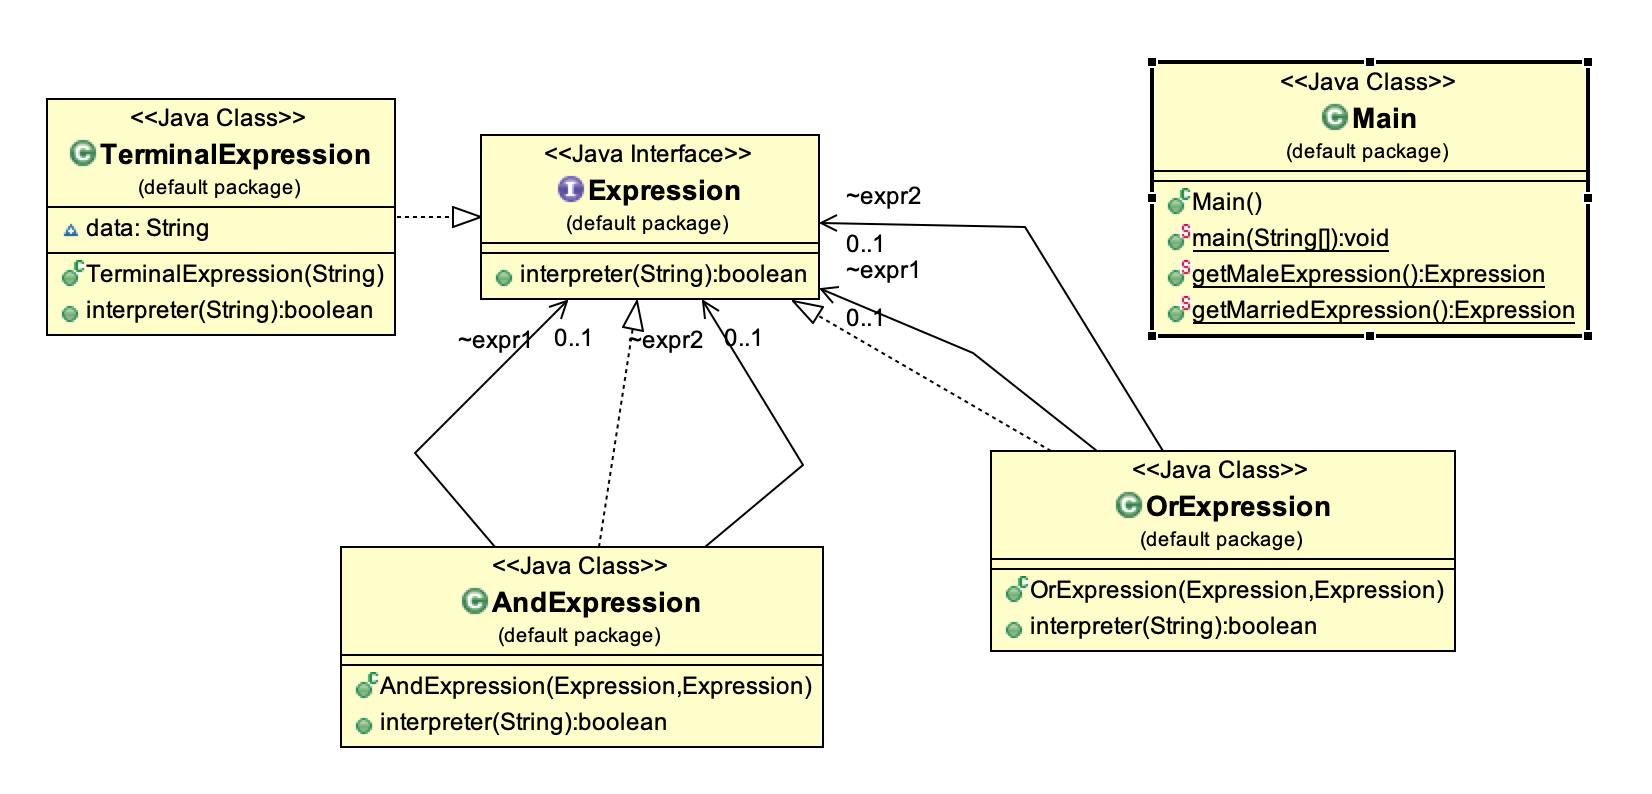
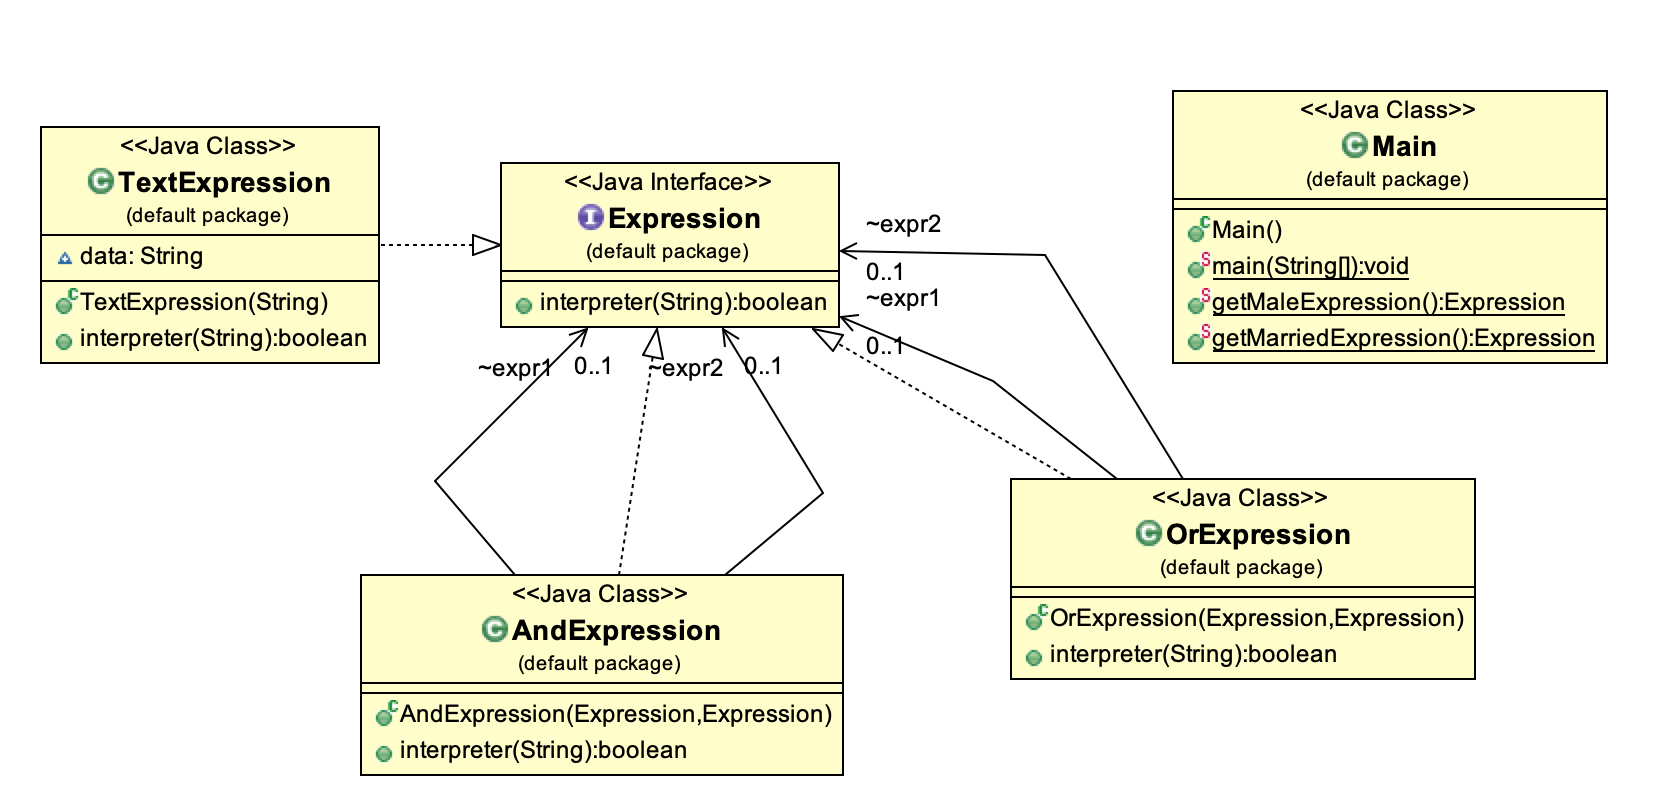
modify interpreter-pattern

diff --git a/design-pattern/behavioral-patterns/Interpreter-pattern.md b/design-pattern/behavioral-patterns/Interpreter-pattern.md
@@ -1,5 +1,3 @@
-# Interpreter Pattern
-
 #### Interpreter 패턴의 정의
 
 ------
@@ -14,22 +12,18 @@
 
 ![ast](../../resource/behavioral-patterns/ast.png)
 
-expression := repetition | alternation | '(' expression ')'
-
-repetition ::= expression '*' - (반복)
-
-alternation ::= expression | expression (대안)
-
-a * => a, aa, aaa, aaaa
-
-dog | cat => dog dog , dog cat, cat cat...
-
 ##### 해석자패턴의 UML
 
 ![Interpreter-pattern](../../resource/behavioral-patterns/Interpreter-pattern.png)
 
 * TerminalExpression : 단말노드 Expression. Leaf노드에 해당하는 Expression
-* NonTerminalExpression : 비단말노드 Expression![interpreter-example](../../resource/behavioral-patterns/interpreter-example.png)
+* NonTerminalExpression : 비단말노드 Expression
+
+#### 해석자 패턴 예제
+
+------
+
+#### ![interpreter-example](../../resource/behavioral-patterns/interpreter-example.png)
 
 ```java
 public interface Expression {
@@ -38,16 +32,16 @@ public interface Expression {
 ```
 
 ```java
-public class TerminalExpression implements Expression{
+public class TextExpression implements Expression{
 
 	String data;
 	
-	public TerminalExpression(String data){
+	public TextExpression(String data){
 		this.data = data;
 	}
 	
 	@Override
-	public boolean interpreter(String con) {
+	public boolean interpreter(String context) {
 		// TODO Auto-generated method stub
 		if(con.contains(data)) return true; 
 		else return false;
@@ -68,9 +62,9 @@ public class OrExpression implements Expression{
 	}
 	
 	@Override
-	public boolean interpreter(String con) {
+	public boolean interpreter(String context) {
 		// TODO Auto-generated method stub
-		return expr1.interpreter(con) || expr2.interpreter(con);
+		return expr1.interpreter(context) || expr2.interpreter(context);
 	}
 }
 ```
@@ -87,9 +81,9 @@ public class AndExpression implements Expression{
 	}
 	
 	@Override
-	public boolean interpreter(String con) {
+	public boolean interpreter(String context) {
 		// TODO Auto-generated method stub
-		return expr1.interpreter(con) && expr2.interpreter(con);
+		return expr1.interpreter(context) && expr2.interpreter(context);
 	}
 }
 ```
@@ -112,14 +106,14 @@ public class Main {
 	}
 	
 	public static Expression getMaleExpression(){
-		Expression robert = new TerminalExpression("Robert");
-		Expression john = new TerminalExpression("John");
+		Expression robert = new TextExpression("Robert");
+		Expression john = new TextExpression("John");
 		return new OrExpression(robert, john);
 	}
 	
 	public static Expression getMarriedExpression(){
-		Expression julie = new TerminalExpression("Julie");
-		Expression married = new TerminalExpression("Married");
+		Expression julie = new TextExpression("Julie");
+		Expression married = new TextExpression("Married");
 		return new AndExpression(julie, married);
 	}
 }
@@ -132,9 +126,10 @@ public class Main {
 ------
 
 * 문법의 변경과 확장이 쉽고, 문법의 구현이 용이하다.
-
 * 표현식을 해석하는 새로운 방법을 추가 가능
 * 단, 복잡한 문법은 관리하기 어려움
+  * 어려운 문법엔 파서 생성기(parser-generator)와 같은 도구를 이용하는 것이 더 나은 방법
+    * cf) 파서생성기 : 문법을 입력하면, 그 문법에 맞는 문장만 받아들이는 파서를 생성해주는 도구.
 
 #### Interpreter 패턴의 구현
 
@@ -143,9 +138,9 @@ public class Main {
 복합체 패턴과 비슷하지만, 아래의 경우 Interpreter 패턴 구현시에만 해당되는 내용
 
 * 추상구문 트리 생성
-  * 해석자 패턴은 어떻게 추상구문 트리를 생성하는지는 다루지 않음. 파싱을 다루지 않으므로, 이는 사용자가 직접 만들어야 함.
+  * 해석자 패턴은 어떻게 추상구문 트리를 생성하는지는 다루지 않음. 파싱을 다루지 않으므로, 재귀하향식 파서를 사용자가 직접 만들어야 함.
 * Interpret() 연산의 정의
-  * Expression 클래스에서 Interpret() 연산을 정의할 필요는 X. 새로운 방식의 해석이 필요한 해석자 등이 계속 필요하다면 Interpret() 연산의 경우, 방문자 패턴(연관된 연산들을 모아 방문자 클래스에게 책임을 지움)을 사용가능함.
+  * Expression 클래스에서 Interpret() 연산을 정의할 필요는 X. 새로운 방식의 해석이 필요한 해석자 등이 계속 필요하다면 Interpret() 연산의 경우, 방문자 패턴 (연관된 연산들을 모아 방문자 클래스에게 책임을 지움) 을 사용가능함.
 * 플라이급 패턴 적용하여 단말 기호 공유
   * 단말기호가 여러번 나타나는 문장은 그 기호에 대한 인스턴스를 공유하는 것이 바람직함.
 
